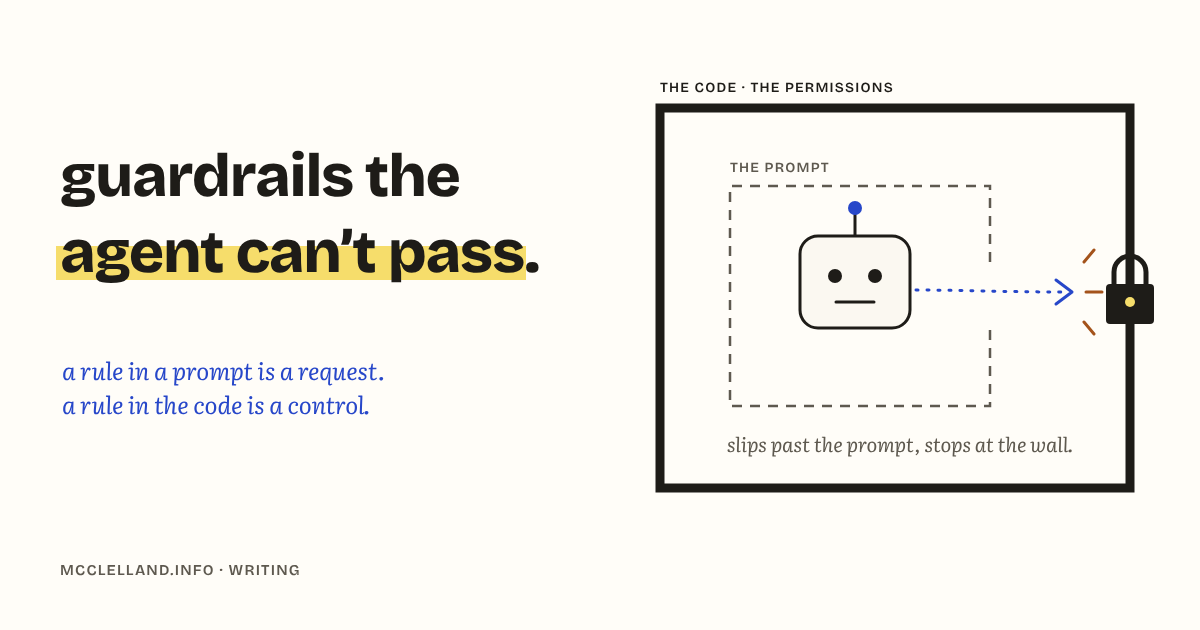
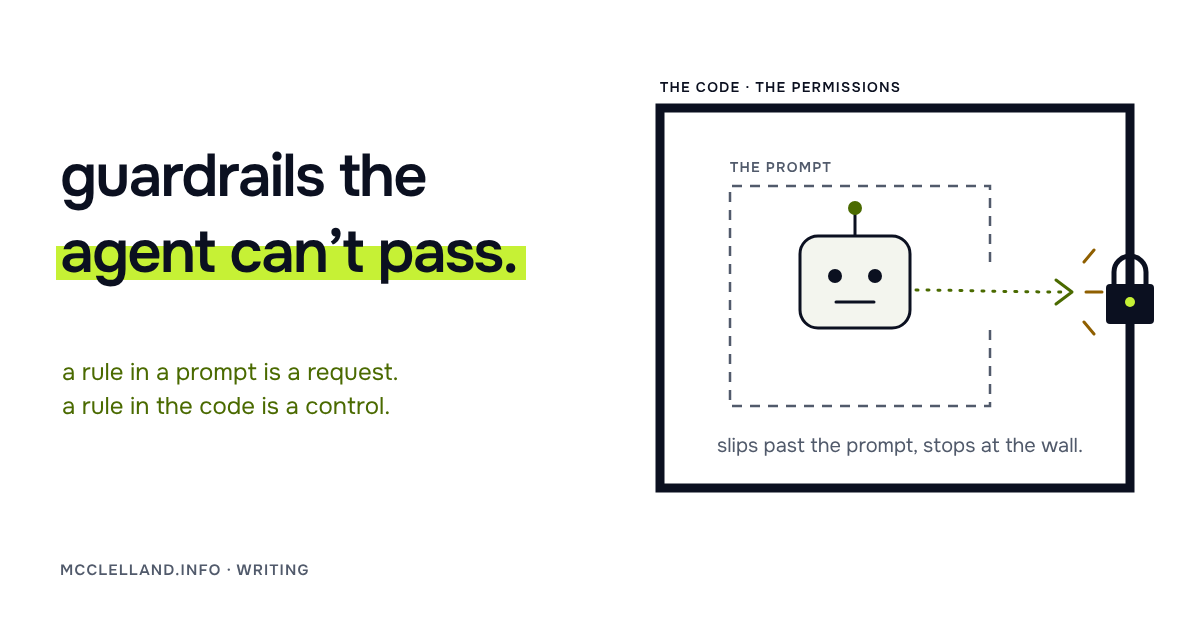
Lime redesign: writing index, posts, covers and social images
Claude-Session: https://claude.ai/code/session_019bUnBrjshTCuAw18jv2U6e

diff --git a/assets/writing.css b/assets/writing.css
@@ -95,3 +95,21 @@
   @media (max-width:720px){ .pcard{grid-template-columns:1fr;gap:1.2rem;} }
   @media (prefers-reduced-motion:reduce){ .pcard svg{transition:none;} }
 
+
+/* Lime layer (November 2026) */
+.dek{font-style:normal;color:var(--graphite);}
+.prose blockquote{font-style:normal;font-weight:500;letter-spacing:-.01em;border-left-color:var(--lime);}
+.aside{font-style:normal;font-family:var(--mono);font-size:.8rem;}
+.fig figcaption{font-style:normal;font-family:var(--mono);font-size:.78rem;}
+.t-disp{font-weight:600;letter-spacing:-.03em;}
+.t-note{font-style:normal;}
+.hero-fig svg,.pcard svg{border-radius:var(--r);overflow:hidden;}
+.fig svg,.fig img{border-radius:var(--r-sm);}
+:root[data-theme="dark"] svg .s-hl{fill:color-mix(in srgb,var(--lime) 34%,var(--paper));}
+.pcard{border-radius:var(--r);padding-inline:12px;}
+.pcard:hover{background:linear-gradient(90deg,color-mix(in srgb,var(--lime) 12%,transparent),transparent 70%);}
+.pcard:hover svg{transform:none;}
+.pcard .m{font-family:var(--mono);font-size:.78rem;}
+.ladder2 .st{border-radius:var(--r-sm);}
+.after .who img{border-radius:14px;}
+.more a{border-radius:var(--r-sm);}

diff --git a/assets/teaching.css b/assets/teaching.css
@@ -39,7 +39,7 @@
   .stab:hover:not([aria-selected="true"]){background:var(--accent-soft);}
   @media (max-width:640px){ .stab{padding:.7rem .4rem;} .stab .t{font-size:.82rem;} .stab .w{font-size:.58rem;} }
   .stagepanel{border:1px solid var(--line);background:var(--paper-raised);padding:1.8rem;}
-  .sp-q{font-family:var(--display);font-style:italic;font-weight:500;font-size:1.3rem;margin:0 0 1.3rem;color:var(--ink);}
+  .sp-q{font-family:var(--display);font-style:normal;font-weight:500;font-size:1.3rem;margin:0 0 1.3rem;color:var(--ink);}
   .sp-grid{display:grid;grid-template-columns:1fr 1fr 1fr;gap:1.4rem;}
   .sp-grid > div{min-width:0;}
   .sp-grid b{display:block;font-family:var(--mono);font-size:.66rem;text-transform:none;letter-spacing:0;color:var(--graphite);margin-bottom:.35rem;}

diff --git a/assets/site.css b/assets/site.css
@@ -730,3 +730,5 @@
   .photo-bg,.photo-credit,.hero-net{display:none!important;}
   .reveal,.reveal.in-view{opacity:1!important;transform:none!important;transition:none!important;}
   @media (prefers-reduced-motion:reduce){ *{scroll-behavior:auto!important;} }
+  /* Onest has no italic: quotes and notes stay upright */
+  .note,.portrait-cap,.method-premise,.pull,.sp-q,.hs-q,.stage .q,h1.headline em{font-style:normal;}
